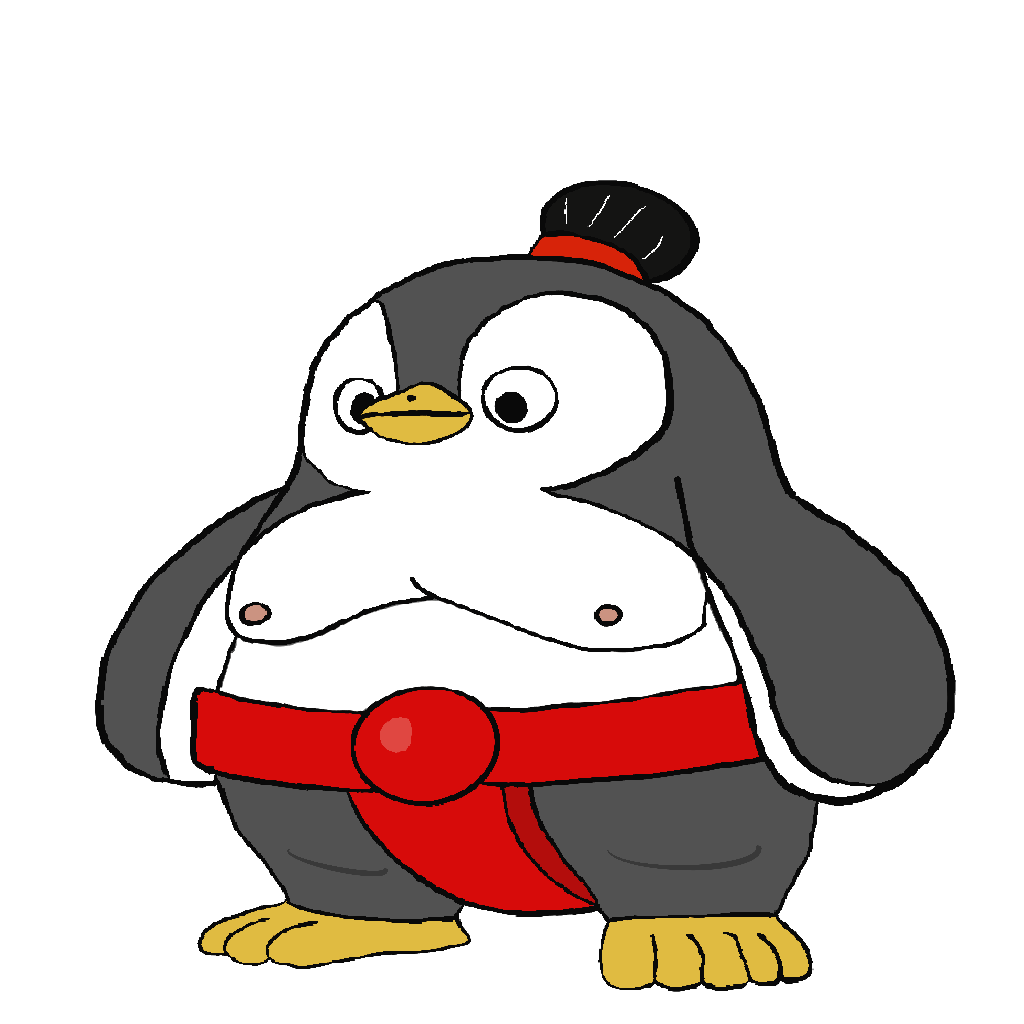
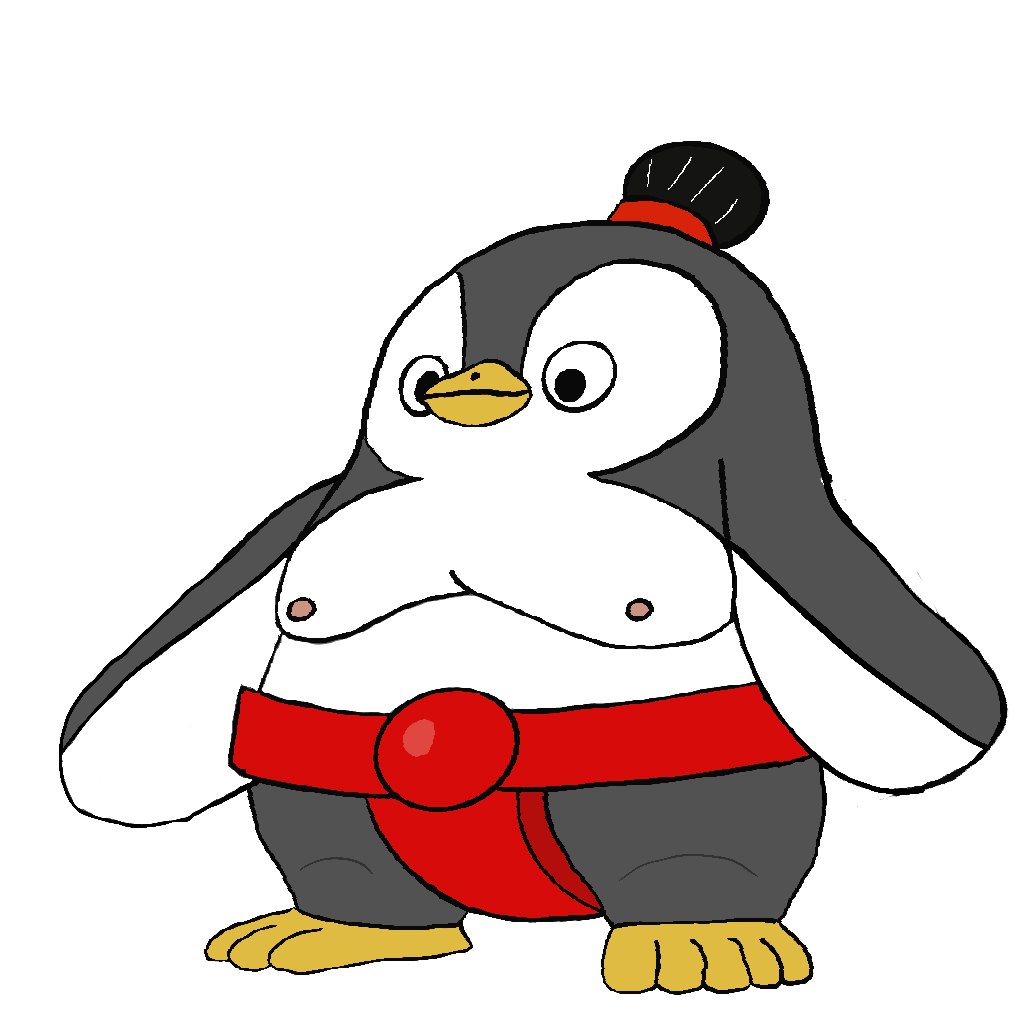
all pre animations complete

diff --git a/client/src/components/GameFighter.jsx b/client/src/components/GameFighter.jsx
@@ -8,6 +8,9 @@ import pumoWaddle from "../assets/pumo-waddle.gif";
 import crouching from "../assets/crouching.png";
 import daibaJumping from "../assets/daibaJumping.gif";
 import daibaHit from "../assets/daibaHit.gif";
+import ready from "../assets/ready.png";
+import attack from "../assets/attack.png";
+import dodging from "../assets/dodging.gif";
 import isPropValid from "@emotion/is-prop-valid";
 // import daibaDiving from "../assets/daibaDiving.png";
 // import dinkey from "../assets/pumo.png";
@@ -30,11 +33,11 @@ const getImageSrc = (
 ) => {
   if (fighter === "pumo") {
     if (isDiving) return pumo;
-    if (isJumping) return pumo;
-    if (isAttacking) return pumo;
-    if (isDodging) return daibaHit;
+    if (isJumping) return pumoWaddle;
+    if (isAttacking) return attack;
+    if (isDodging) return dodging;
     if (isCrouching) return crouching;
-    if (isReady) return daibaJumping;
+    if (isReady) return ready;
     if (isStrafing) return pumoWaddle;
     if (isHit) return pumo;
 

diff --git a/server-io/index.js b/server-io/index.js
@@ -529,11 +529,16 @@ io.on("connection", (socket) => {
         player.dodgeEndTime = Date.now() + 300; // Dodge lasts for 0.3 seconds
         player.stamina -= 20; // Consume some stamina for the dodge
       }
-      if (player.keys[" "] && !player.isAttacking && player.stamina >= 20) {
+      if (
+        player.keys[" "] &&
+        !player.isAttacking &&
+        player.stamina >= 20 &&
+        !player.isJumping
+      ) {
         player.isAttacking = true;
         console.log(player.keys[" "]);
         player.stamina -= 20; // Consume some stamina for the attack
-        player.attackEndTime = Date.now() + 250; // Attack lasts for 1 second
+        player.attackEndTime = Date.now() + 500; // Attack lasts for .5 seconds
       }
     }
 
